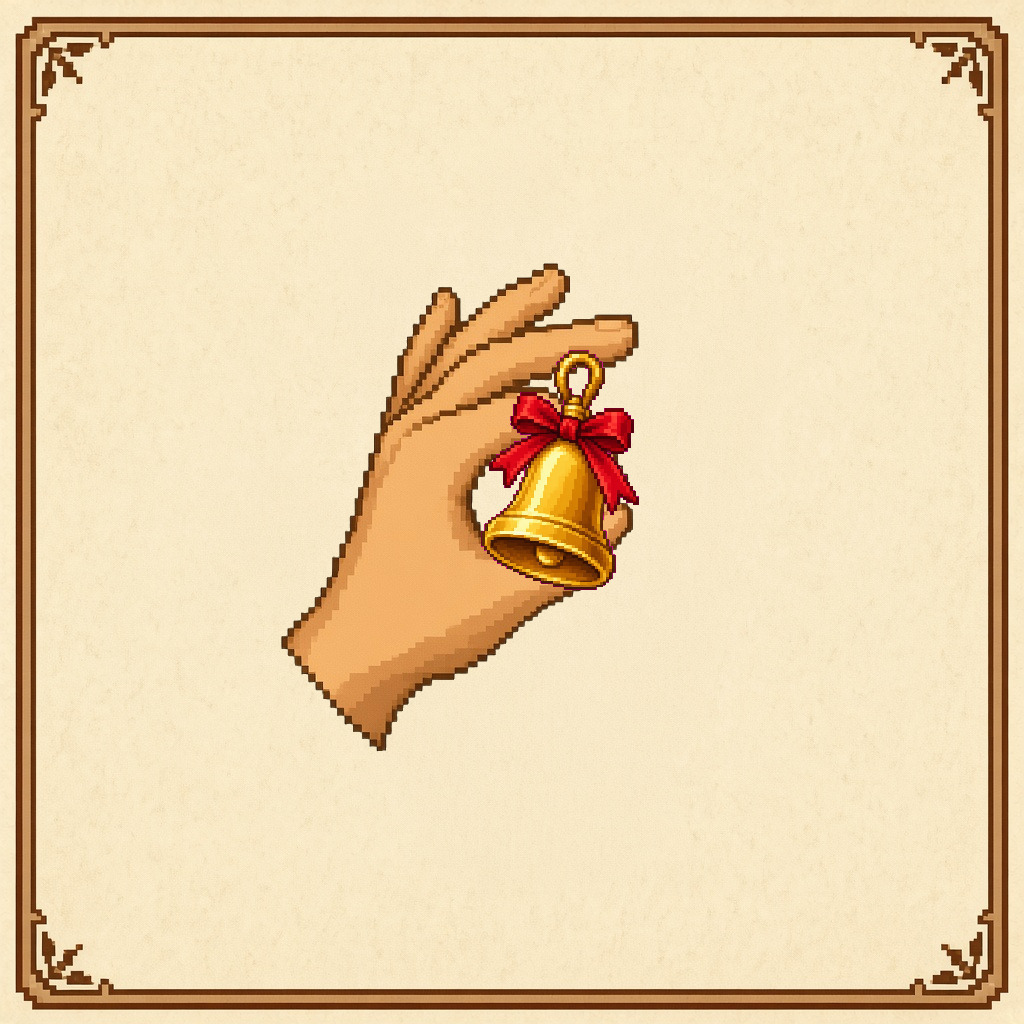
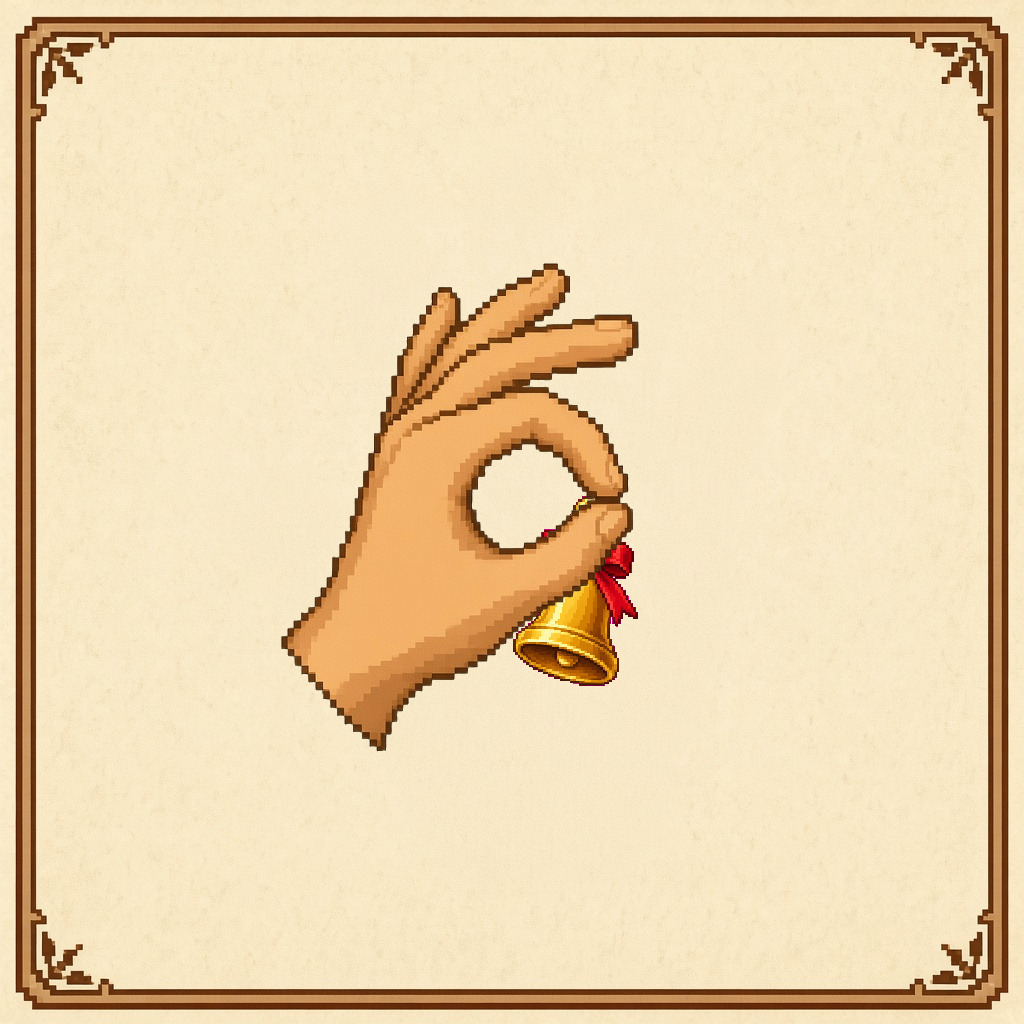
Fix gift/bell guide placement; hard cache-bust
Place pack gift sprites in the heart hollow with a clear gap from
fingers, and align bell handle tips to each style's pinch point.
Bump guide cache VERS (pixel 62, vintage 14, paper 17, neon 16).

Changed region(s): [[0.4688, 0.3438, 0.625, 0.6875]]

diff --git a/hosts/neon/src/pixelAssets.js b/hosts/neon/src/pixelAssets.js
@@ -68,13 +68,13 @@ export function loadImage(src, { scrubMagenta = false } = {}) {
 const BASE = import.meta.env.BASE_URL
 
 export const PIXEL = {
-  guideSnow: `${BASE}pixel/guide-snow.jpg?v=61`,
-  guideGift: `${BASE}pixel/guide-gift.jpg?v=61`,
-  guideBell: `${BASE}pixel/guide-bell.jpg?v=61`,
-  guideAntlers: `${BASE}pixel/guide-antlers.jpg?v=61`,
-  guideHat: `${BASE}pixel/guide-hat.jpg?v=61`,
-  guideNext: `${BASE}pixel/guide-next.jpg?v=61`,
-  guideTree: `${BASE}pixel/guide-tree.jpg?v=61`,
+  guideSnow: `${BASE}pixel/guide-snow.jpg?v=62`,
+  guideGift: `${BASE}pixel/guide-gift.jpg?v=62`,
+  guideBell: `${BASE}pixel/guide-bell.jpg?v=62`,
+  guideAntlers: `${BASE}pixel/guide-antlers.jpg?v=62`,
+  guideHat: `${BASE}pixel/guide-hat.jpg?v=62`,
+  guideNext: `${BASE}pixel/guide-next.jpg?v=62`,
+  guideTree: `${BASE}pixel/guide-tree.jpg?v=62`,
   santaHat: `${BASE}pixel/santa-hat.png?v=3`,
   antlers: `${BASE}pixel/antlers.png?v=2`,
   gift: `${BASE}pixel/gift.png?v=52`,

diff --git a/hosts/paper/src/pixelAssets.js b/hosts/paper/src/pixelAssets.js
@@ -68,13 +68,13 @@ export function loadImage(src, { scrubMagenta = false } = {}) {
 const BASE = import.meta.env.BASE_URL
 
 export const PIXEL = {
-  guideSnow: `${BASE}pixel/guide-snow.jpg?v=61`,
-  guideGift: `${BASE}pixel/guide-gift.jpg?v=61`,
-  guideBell: `${BASE}pixel/guide-bell.jpg?v=61`,
-  guideAntlers: `${BASE}pixel/guide-antlers.jpg?v=61`,
-  guideHat: `${BASE}pixel/guide-hat.jpg?v=61`,
-  guideNext: `${BASE}pixel/guide-next.jpg?v=61`,
-  guideTree: `${BASE}pixel/guide-tree.jpg?v=61`,
+  guideSnow: `${BASE}pixel/guide-snow.jpg?v=62`,
+  guideGift: `${BASE}pixel/guide-gift.jpg?v=62`,
+  guideBell: `${BASE}pixel/guide-bell.jpg?v=62`,
+  guideAntlers: `${BASE}pixel/guide-antlers.jpg?v=62`,
+  guideHat: `${BASE}pixel/guide-hat.jpg?v=62`,
+  guideNext: `${BASE}pixel/guide-next.jpg?v=62`,
+  guideTree: `${BASE}pixel/guide-tree.jpg?v=62`,
   santaHat: `${BASE}pixel/santa-hat.png?v=3`,
   antlers: `${BASE}pixel/antlers.png?v=2`,
   gift: `${BASE}pixel/gift.png?v=52`,

diff --git a/hosts/pixel/src/pixelAssets.js b/hosts/pixel/src/pixelAssets.js
@@ -68,13 +68,13 @@ export function loadImage(src, { scrubMagenta = false } = {}) {
 const BASE = import.meta.env.BASE_URL
 
 export const PIXEL = {
-  guideSnow: `${BASE}pixel/guide-snow.jpg?v=61`,
-  guideGift: `${BASE}pixel/guide-gift.jpg?v=61`,
-  guideBell: `${BASE}pixel/guide-bell.jpg?v=61`,
-  guideAntlers: `${BASE}pixel/guide-antlers.jpg?v=61`,
-  guideHat: `${BASE}pixel/guide-hat.jpg?v=61`,
-  guideNext: `${BASE}pixel/guide-next.jpg?v=61`,
-  guideTree: `${BASE}pixel/guide-tree.jpg?v=61`,
+  guideSnow: `${BASE}pixel/guide-snow.jpg?v=62`,
+  guideGift: `${BASE}pixel/guide-gift.jpg?v=62`,
+  guideBell: `${BASE}pixel/guide-bell.jpg?v=62`,
+  guideAntlers: `${BASE}pixel/guide-antlers.jpg?v=62`,
+  guideHat: `${BASE}pixel/guide-hat.jpg?v=62`,
+  guideNext: `${BASE}pixel/guide-next.jpg?v=62`,
+  guideTree: `${BASE}pixel/guide-tree.jpg?v=62`,
   santaHat: `${BASE}pixel/santa-hat.png?v=3`,
   antlers: `${BASE}pixel/antlers.png?v=2`,
   gift: `${BASE}pixel/gift.png?v=52`,

diff --git a/hosts/vintage/src/pixelAssets.js b/hosts/vintage/src/pixelAssets.js
@@ -68,13 +68,13 @@ export function loadImage(src, { scrubMagenta = false } = {}) {
 const BASE = import.meta.env.BASE_URL
 
 export const PIXEL = {
-  guideSnow: `${BASE}pixel/guide-snow.jpg?v=61`,
-  guideGift: `${BASE}pixel/guide-gift.jpg?v=61`,
-  guideBell: `${BASE}pixel/guide-bell.jpg?v=61`,
-  guideAntlers: `${BASE}pixel/guide-antlers.jpg?v=61`,
-  guideHat: `${BASE}pixel/guide-hat.jpg?v=61`,
-  guideNext: `${BASE}pixel/guide-next.jpg?v=61`,
-  guideTree: `${BASE}pixel/guide-tree.jpg?v=61`,
+  guideSnow: `${BASE}pixel/guide-snow.jpg?v=62`,
+  guideGift: `${BASE}pixel/guide-gift.jpg?v=62`,
+  guideBell: `${BASE}pixel/guide-bell.jpg?v=62`,
+  guideAntlers: `${BASE}pixel/guide-antlers.jpg?v=62`,
+  guideHat: `${BASE}pixel/guide-hat.jpg?v=62`,
+  guideNext: `${BASE}pixel/guide-next.jpg?v=62`,
+  guideTree: `${BASE}pixel/guide-tree.jpg?v=62`,
   santaHat: `${BASE}pixel/santa-hat.png?v=3`,
   antlers: `${BASE}pixel/antlers.png?v=2`,
   gift: `${BASE}pixel/gift.png?v=52`,

diff --git a/src/pixelAssets.js b/src/pixelAssets.js
@@ -68,13 +68,13 @@ export function loadImage(src, { scrubMagenta = false } = {}) {
 const BASE = import.meta.env.BASE_URL
 
 export const PIXEL = {
-  guideSnow: `${BASE}pixel/guide-snow.jpg?v=61`,
-  guideGift: `${BASE}pixel/guide-gift.jpg?v=61`,
-  guideBell: `${BASE}pixel/guide-bell.jpg?v=61`,
-  guideAntlers: `${BASE}pixel/guide-antlers.jpg?v=61`,
-  guideHat: `${BASE}pixel/guide-hat.jpg?v=61`,
-  guideNext: `${BASE}pixel/guide-next.jpg?v=61`,
-  guideTree: `${BASE}pixel/guide-tree.jpg?v=61`,
+  guideSnow: `${BASE}pixel/guide-snow.jpg?v=62`,
+  guideGift: `${BASE}pixel/guide-gift.jpg?v=62`,
+  guideBell: `${BASE}pixel/guide-bell.jpg?v=62`,
+  guideAntlers: `${BASE}pixel/guide-antlers.jpg?v=62`,
+  guideHat: `${BASE}pixel/guide-hat.jpg?v=62`,
+  guideNext: `${BASE}pixel/guide-next.jpg?v=62`,
+  guideTree: `${BASE}pixel/guide-tree.jpg?v=62`,
   santaHat: `${BASE}pixel/santa-hat.png?v=3`,
   antlers: `${BASE}pixel/antlers.png?v=2`,
   gift: `${BASE}pixel/gift.png?v=52`,

diff --git a/hosts/neon/src/vintageAssets.js b/hosts/neon/src/vintageAssets.js
@@ -7,13 +7,13 @@ const BASE = import.meta.env.BASE_URL
 const V = `${BASE}vintage`
 
 export const VINTAGE = {
-  guideSnow: `${V}/guide-snow.jpg?v=13`,
-  guideGift: `${V}/guide-gift.jpg?v=13`,
-  guideBell: `${V}/guide-bell.jpg?v=13`,
-  guideAntlers: `${V}/guide-antlers.jpg?v=13`,
-  guideHat: `${V}/guide-hat.jpg?v=13`,
-  guideNext: `${V}/guide-next.jpg?v=13`,
-  guideTree: `${V}/guide-tree.jpg?v=13`,
+  guideSnow: `${V}/guide-snow.jpg?v=14`,
+  guideGift: `${V}/guide-gift.jpg?v=14`,
+  guideBell: `${V}/guide-bell.jpg?v=14`,
+  guideAntlers: `${V}/guide-antlers.jpg?v=14`,
+  guideHat: `${V}/guide-hat.jpg?v=14`,
+  guideNext: `${V}/guide-next.jpg?v=14`,
+  guideTree: `${V}/guide-tree.jpg?v=14`,
   santaHat: `${V}/santa-hat.png?v=3`,
   antlers: `${V}/antlers.png?v=3`,
   gift: `${V}/gift.png?v=3`,

diff --git a/hosts/paper/src/vintageAssets.js b/hosts/paper/src/vintageAssets.js
@@ -7,13 +7,13 @@ const BASE = import.meta.env.BASE_URL
 const V = `${BASE}vintage`
 
 export const VINTAGE = {
-  guideSnow: `${V}/guide-snow.jpg?v=13`,
-  guideGift: `${V}/guide-gift.jpg?v=13`,
-  guideBell: `${V}/guide-bell.jpg?v=13`,
-  guideAntlers: `${V}/guide-antlers.jpg?v=13`,
-  guideHat: `${V}/guide-hat.jpg?v=13`,
-  guideNext: `${V}/guide-next.jpg?v=13`,
-  guideTree: `${V}/guide-tree.jpg?v=13`,
+  guideSnow: `${V}/guide-snow.jpg?v=14`,
+  guideGift: `${V}/guide-gift.jpg?v=14`,
+  guideBell: `${V}/guide-bell.jpg?v=14`,
+  guideAntlers: `${V}/guide-antlers.jpg?v=14`,
+  guideHat: `${V}/guide-hat.jpg?v=14`,
+  guideNext: `${V}/guide-next.jpg?v=14`,
+  guideTree: `${V}/guide-tree.jpg?v=14`,
   santaHat: `${V}/santa-hat.png?v=1`,
   antlers: `${V}/antlers.png?v=1`,
   gift: `${V}/gift.png?v=1`,

diff --git a/hosts/vintage/src/vintageAssets.js b/hosts/vintage/src/vintageAssets.js
@@ -5,7 +5,7 @@ import { loadImage } from './pixelAssets.js'
 
 const BASE = import.meta.env.BASE_URL
 const V = `${BASE}vintage`
-const VER = '13'
+const VER = '14'
 
 export const VINTAGE = {
   guideSnow: `${V}/guide-snow.jpg?v=${VER}`,

diff --git a/src/vintageAssets.js b/src/vintageAssets.js
@@ -5,7 +5,7 @@ import { loadImage } from './pixelAssets.js'
 
 const BASE = import.meta.env.BASE_URL
 const V = `${BASE}vintage`
-const VER = '13'
+const VER = '14'
 
 export const VINTAGE = {
   guideSnow: `${V}/guide-snow.jpg?v=${VER}`,

diff --git a/hosts/paper/src/paperAssets.js b/hosts/paper/src/paperAssets.js
@@ -5,7 +5,7 @@ import { loadImage } from './pixelAssets.js'
 
 const BASE = import.meta.env.BASE_URL
 const P = `${BASE}paper`
-const VER = '16'
+const VER = '17'
 
 export const PAPER = {
   guideSnow: `${P}/guide-snow.jpg?v=${VER}`,

diff --git a/src/paperAssets.js b/src/paperAssets.js
@@ -5,7 +5,7 @@ import { loadImage } from './pixelAssets.js'
 
 const BASE = import.meta.env.BASE_URL
 const P = `${BASE}paper`
-const VER = '16'
+const VER = '17'
 
 export const PAPER = {
   guideSnow: `${P}/guide-snow.jpg?v=${VER}`,

diff --git a/hosts/neon/src/neonAssets.js b/hosts/neon/src/neonAssets.js
@@ -5,7 +5,7 @@ import { loadImage } from './pixelAssets.js'
 
 const BASE = import.meta.env.BASE_URL
 const N = `${BASE}neon`
-const VER = '15'
+const VER = '16'
 const FLAKE_VER = '4'
 
 export const NEON = {
